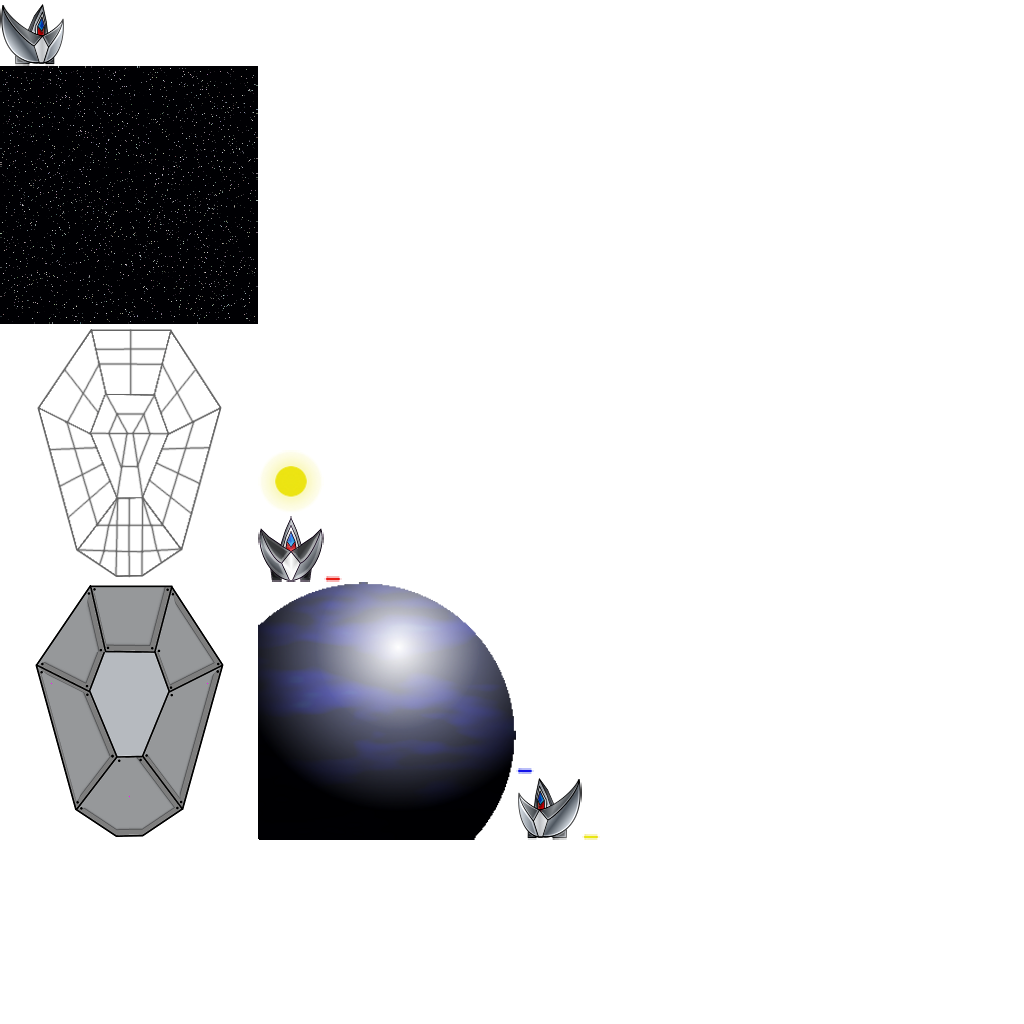
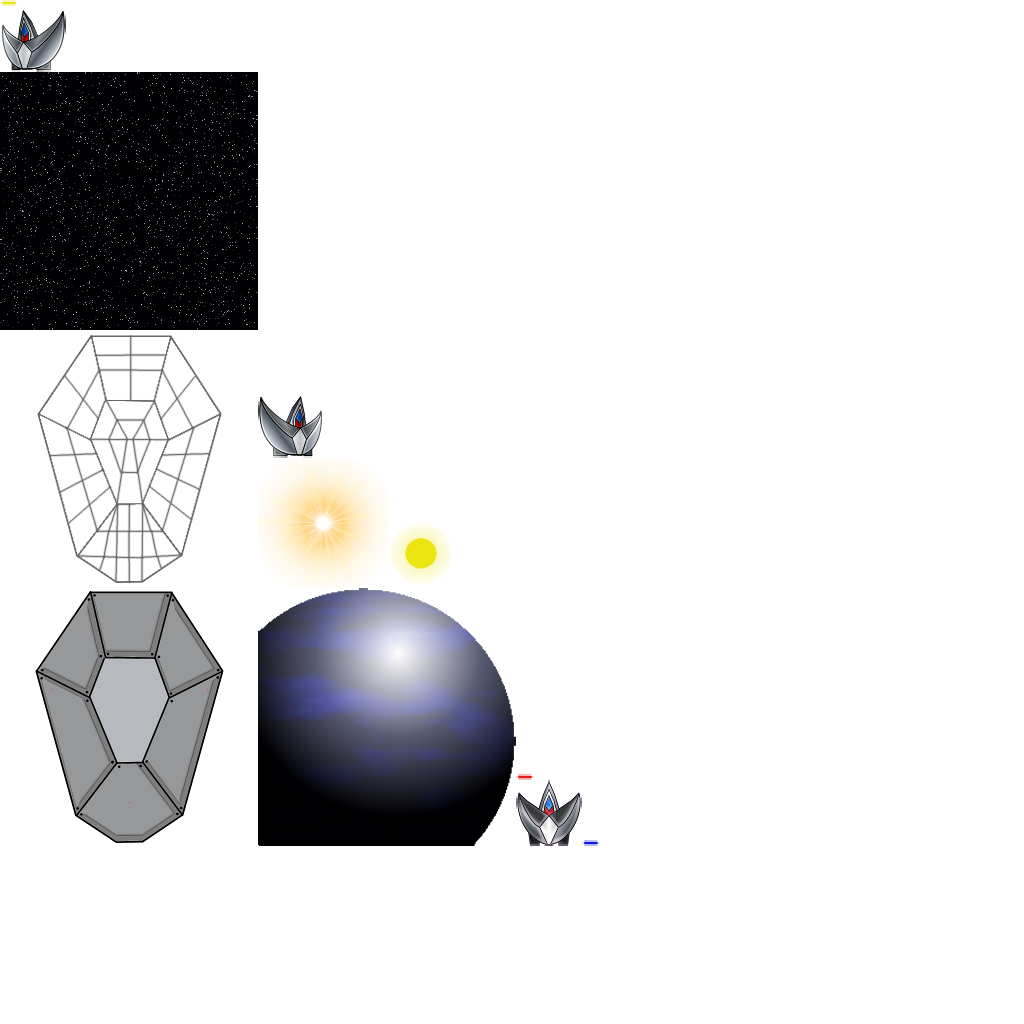
Modification sur la gestion des éléments d'arrière plan. La position indiquée est, comme pour l'ennemi, le centre de l'objet

diff --git a/alanparsons2/src/com/MRK/alanparsons2/factories/LevelBuilder.java b/alanparsons2/src/com/MRK/alanparsons2/factories/LevelBuilder.java
@@ -309,6 +309,8 @@ public class LevelBuilder implements Disposable {
 		
 		element.setMoveable(moveable);
 		
+		float x = 0, y = 0;
+		
 		for (Entry<String, ResourceValue> value : values.entrySet()) {
 			if (value.getKey().equalsIgnoreCase(Z_RANK))
 				element.setZrank((int) value.getValue().getNumber());
@@ -319,9 +321,11 @@ public class LevelBuilder implements Disposable {
 			if (value.getKey().equalsIgnoreCase(HEIGHT))
 				element.setHeight(value.getValue().getNumber());
 			if (value.getKey().equalsIgnoreCase(X))
-				element.setX(value.getValue().getNumber());
+//				element.setX(value.getValue().getNumber());
+				x= value.getValue().getNumber();
 			if (value.getKey().equalsIgnoreCase(Y))
-				element.setY(value.getValue().getNumber());
+//				element.setY(value.getValue().getNumber());
+				y = value.getValue().getNumber();
 			if (value.getKey().equalsIgnoreCase(SHIFTX))
 				element.setShiftx(value.getValue().getNumber());
 			if (value.getKey().equalsIgnoreCase(SHIFTY))
@@ -331,7 +335,10 @@ public class LevelBuilder implements Disposable {
 			if (value.getKey().equalsIgnoreCase(REPEAT_HEIGHT))
 				element.setRepeatHeight(value.getValue().getNumber());
 		}
-
+		
+		element.setX(x - element.getWidth() / 2);
+		element.setY(y - element.getHeight() / 2);
+		
 		background.addElement(element);		
 	}
 	
